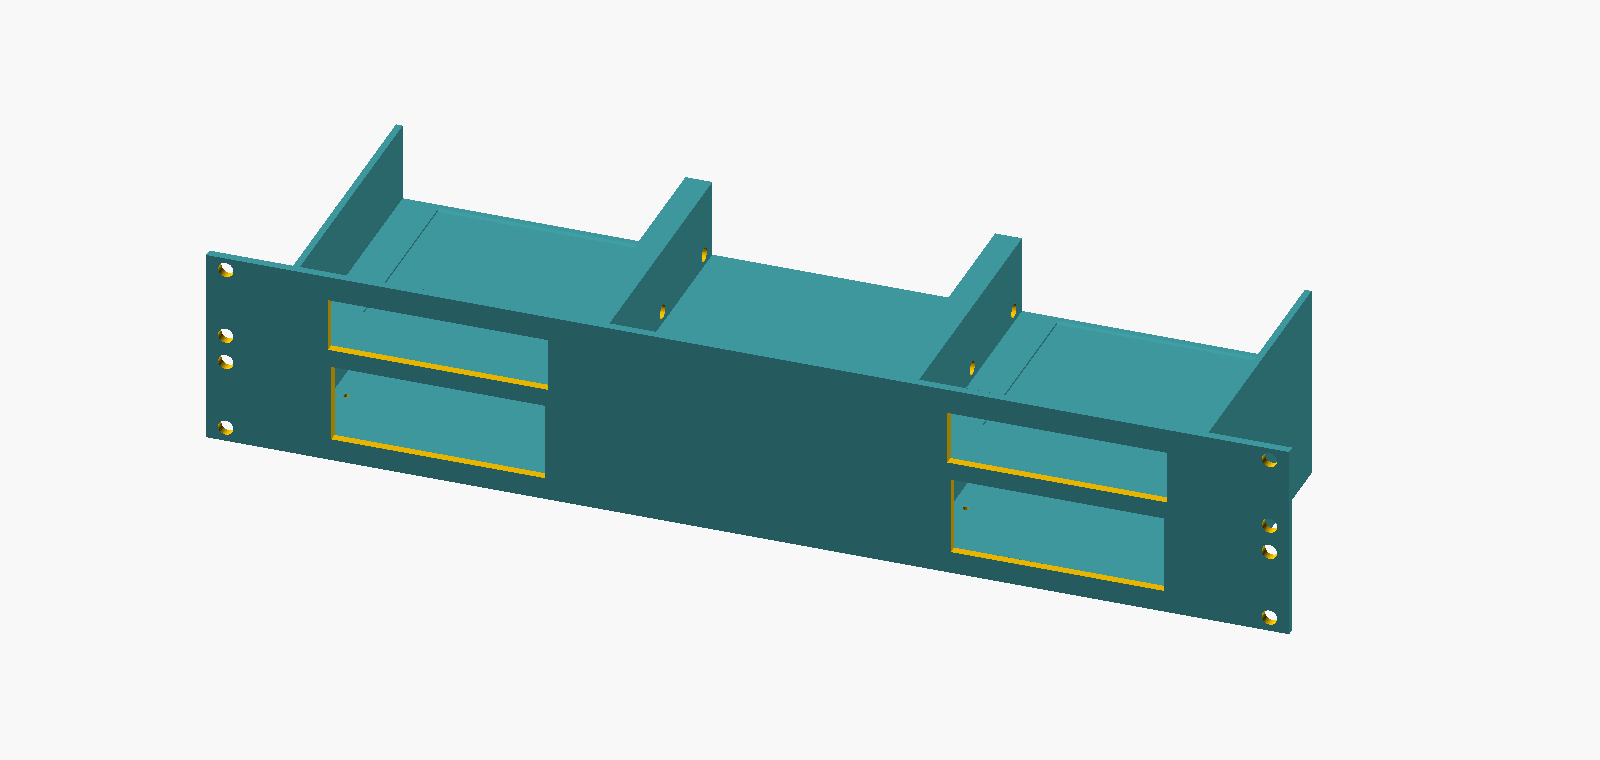
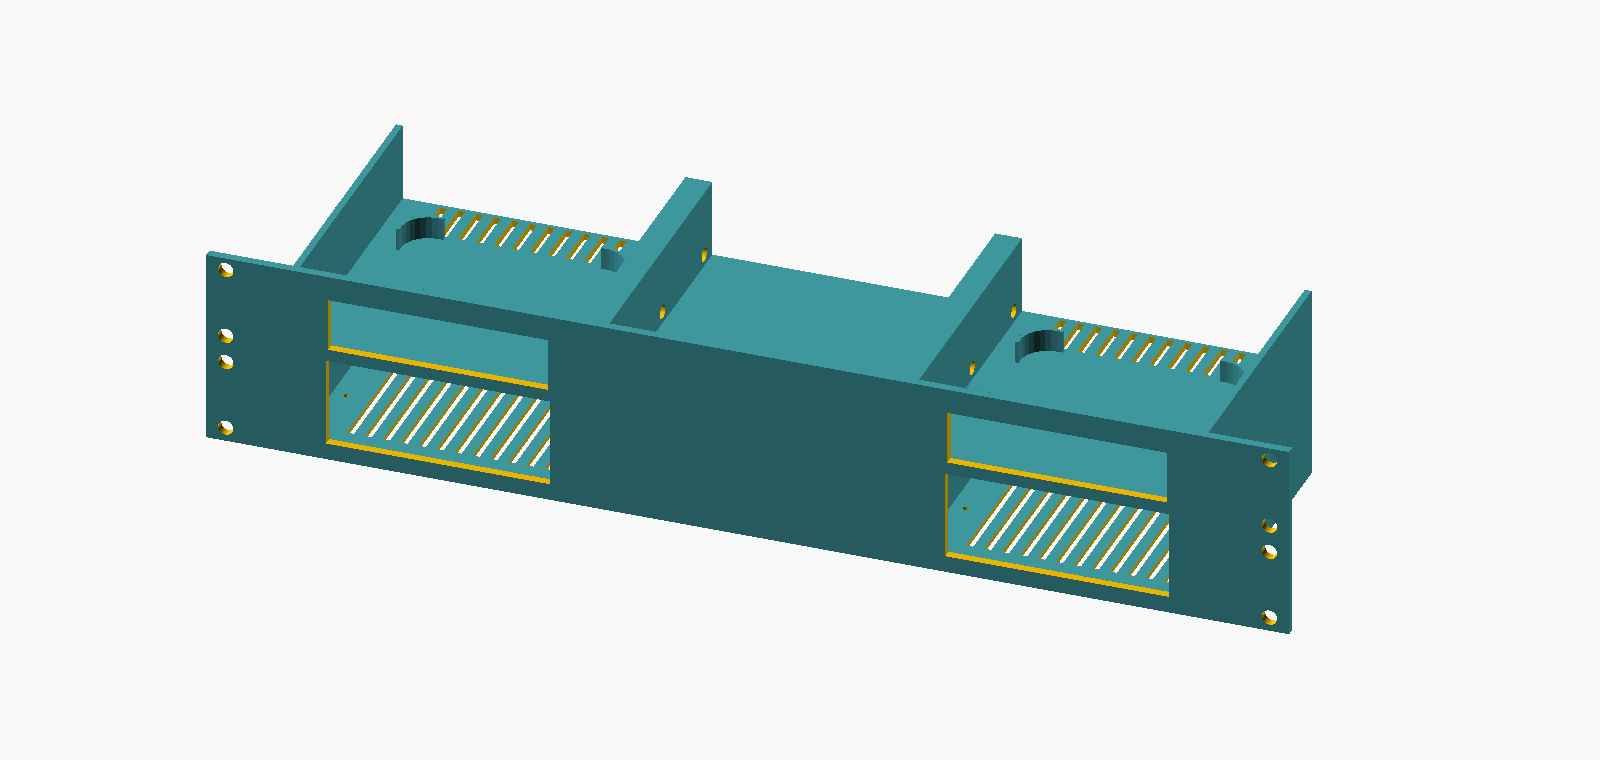
fix(audio-2u): seat the AirPort front-flush behind its window (#3)
* fix(audio-2u): seat the AirPort front-flush behind its window, vent behind it

The AirPort bay was rear-flush, leaving the AirPort 28 mm behind the front
window. It now sits against the front plate; the exhaust slots in the upper
floor move from ahead of the AirPort to behind it.

* feat(audio-2u): replace the AirPort floor dimple with curved rear holders

Two thin quarter-round walls trace the AirPort's rear corners and stop it
sliding back; the vents behind it shift 2 mm to clear the holders' lip.

* docs(audio-2u): drop stale dimple wording

---------

diff --git a/README.md b/README.md
@@ -181,15 +181,16 @@ seam total on this panel) = **3 bolts, 3 nuts, 2 dowels**.
 Three bolt-together columns. Each stack pairs one AirPort Express (upper U)
 directly above one Kinter MA170 amp (lower U), one stack per AirPlay zone.
 
-- **Columns 1 & 3 (zones 1 and 2):** AirPort rear-flush with a full-face front
-  window + floor dimple; Kinter behind a 100 x 40mm window its knobs poke
+- **Columns 1 & 3 (zones 1 and 2):** AirPort front-flush (face against the plate, behind a full-face
+  window for the status light) and two curved holders hugging its rear
+  corners so it can't slide back; Kinter behind a 100 x 40mm window its knobs poke
   through (they stand 20mm proud of the front plate, for finger adjustment),
   with two printed screw bosses under the amp's factory mounting tabs.
-  Front-to-back vent slots under the amp and in the upper floor ahead of the
+  Front-to-back vent slots under the amp and in the upper floor behind the
   AirPort let its heat rise out of the stack. The amp
   floor sits 4mm up so those bosses stay inside the panel, and the AirPort
   floor sits 1mm above the amp rather than on the U line.
-- **Column 2:** blank — the same floors and joints with no windows, dimple
+- **Column 2:** blank — the same floors and joints with no windows, holders
   or bosses. For a third zone, print `audio-2-stack.stl` as the middle
   piece instead: it is the same stack as columns 1 and 3 and bolts up
   identically.
@@ -208,8 +209,8 @@ dowels** total across both seams.
    meets the front plate, and screw it to the floor bosses through the
    amp's factory tabs. The two driver holes in the upper floor sit straight
    above the tab screws: lower each screw through on the driver.
-4. Slide each AirPort Express into its upper U from the rear until it drops
-   into the floor dimple. The driver holes stay clear either side of it, so
+4. Slide each AirPort Express into its upper U from the rear until its face
+   meets the front plate and the two curved rear holders cup its back corners. The driver holes stay clear either side of it, so
    an amp can come out without disturbing the AirPort.
 5. Mount with M6 cage nuts — these columns carry protruding ear tabs that
    reach the rack's true 482.6mm width (the 3 columns' own content only
